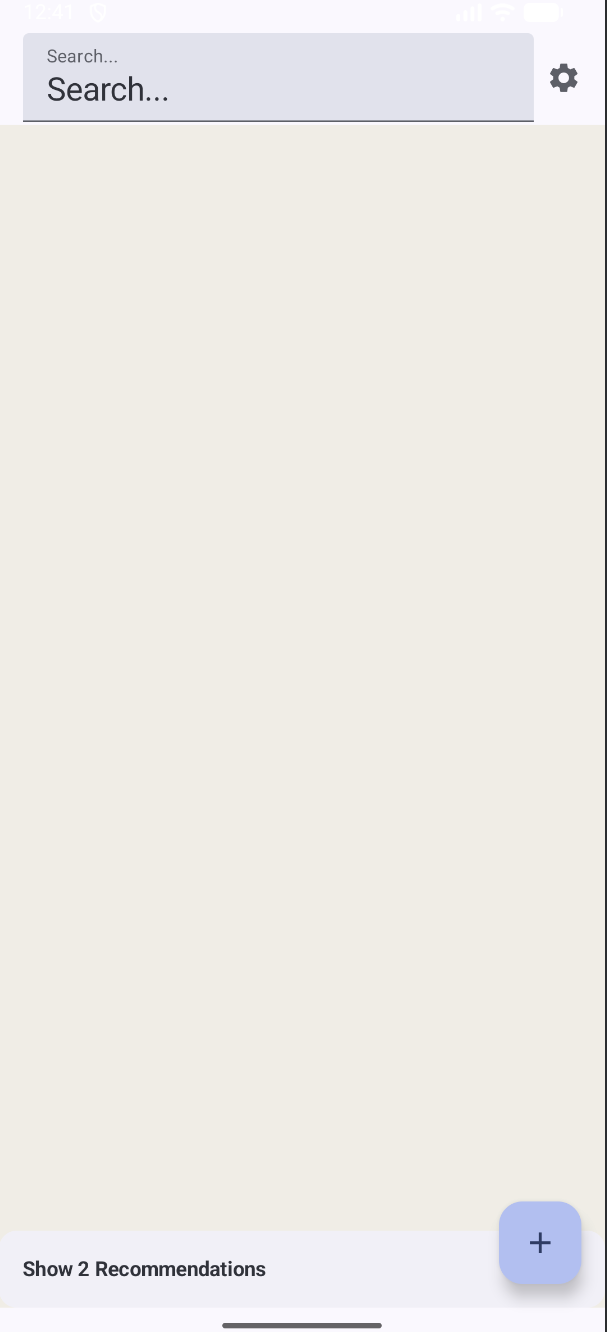
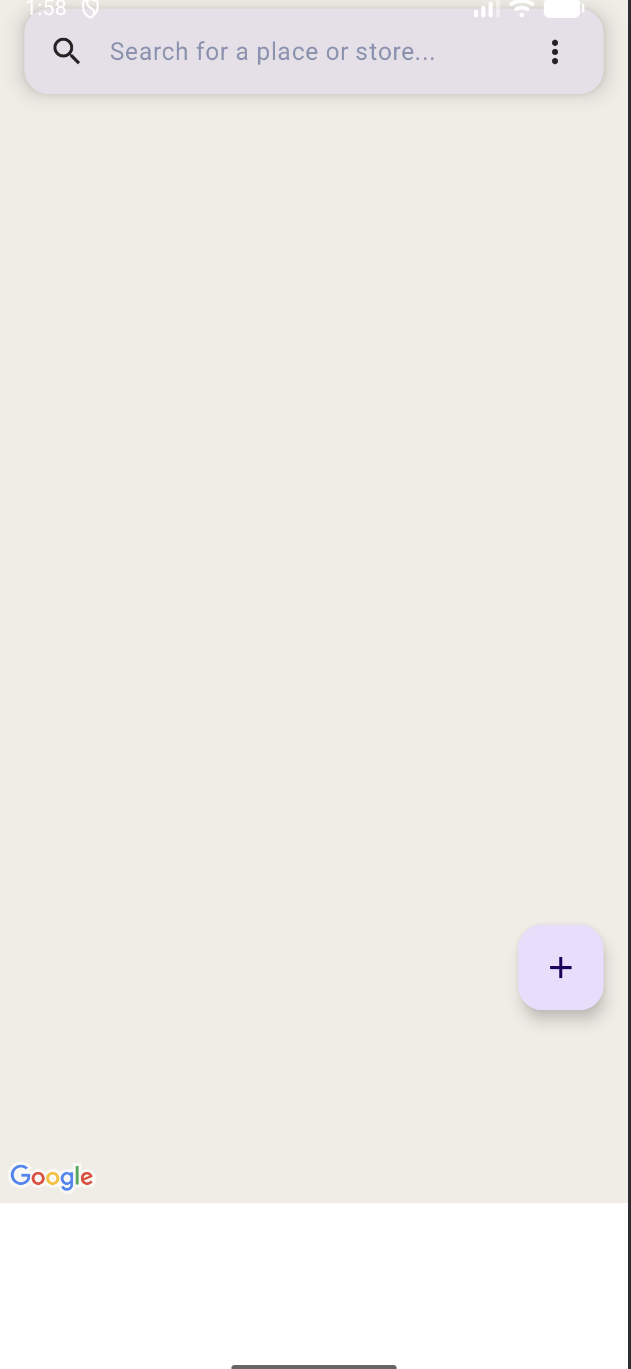
removed bottom right add card button

diff --git a/app/src/main/java/teamcherrypicker/com/ui/main/MainScreen.kt b/app/src/main/java/teamcherrypicker/com/ui/main/MainScreen.kt
@@ -58,12 +58,31 @@ fun MainScreen(
         )
     )
 
+    // Add: simple model for mock store markers and selection state
+    data class StoreMarker(val id: String, val position: LatLng, val title: String)
+
+    val mockStoreMarkers = listOf(
+        StoreMarker("s1", LatLng(1.3521, 103.8198), "Orchard Road - Mock Store"),
+        StoreMarker("s2", LatLng(1.2833, 103.8600), "Marina Bay - Mock Store"),
+        StoreMarker("s3", LatLng(1.3000, 103.8000), "Bugis - Mock Store")
+    )
+
+    var selectedMarker by remember { mutableStateOf<StoreMarker?>(null) }
+
+    // Use conditional peek height to hide sheet when no selection
+    val effectivePeek = if (selectedMarker != null) 220.dp else 0.dp
+
     BottomSheetScaffold(
         scaffoldState = scaffoldState,
         sheetContent = {
-            RecommendationSheetContent(cards = sampleCards)
+            if (selectedMarker != null) {
+                RecommendationSheetContent(cards = sampleCards, selectedTitle = selectedMarker!!.title)
+            } else {
+                // Completely empty content when no marker selected
+                Box(modifier = Modifier.height(0.dp))
+            }
         },
-        sheetPeekHeight = 120.dp,
+        sheetPeekHeight = effectivePeek,
         sheetShape = RoundedCornerShape(topStart = 16.dp, topEnd = 16.dp)
     ) { paddingValues ->
         Box(modifier = Modifier.padding(paddingValues).fillMaxSize()) {
@@ -76,10 +95,30 @@ fun MainScreen(
                 cameraPositionState = cameraPositionState,
                 uiSettings = uiSettings
             ) {
+                // Render mock store markers and wire up clicks to set selectedMarker
+                mockStoreMarkers.forEach { store ->
+                    Marker(
+                        state = MarkerState(position = store.position),
+                        title = store.title,
+                        snippet = "Tap for recommendations",
+                        onClick = {
+                            selectedMarker = store
+                            // Consume the click
+                            true
+                        }
+                    )
+                }
+
+                // Optionally keep one default marker (not selected by default)
                 Marker(
                     state = MarkerState(position = singapore),
                     title = "Singapore",
-                    snippet = "Marker in Singapore"
+                    snippet = "Marker in Singapore",
+                    onClick = {
+                        // deselect any store and do nothing else
+                        selectedMarker = null
+                        true
+                    }
                 )
             }
 
@@ -90,15 +129,7 @@ fun MainScreen(
                 onToggleDarkMode = onToggleDarkMode
             )
 
-            FloatingActionButton(
-                onClick = { navController.navigate(Screen.AddCardScreen.route) },
-                modifier = Modifier
-                    .align(Alignment.BottomEnd)
-                    .padding(16.dp)
-                    .padding(bottom = 110.dp) // Adjust to be above the peeked sheet
-            ) {
-                Icon(Icons.Filled.Add, contentDescription = "Add Card")
-            }
+            // Removed the bottom-right "+" FloatingActionButton per request
         }
     }
 }
@@ -191,7 +222,7 @@ fun FloatingSearchBar(
 }
 
 @Composable
-fun RecommendationSheetContent(cards: List<RecommendedCard>) {
+fun RecommendationSheetContent(cards: List<RecommendedCard>, selectedTitle: String) {
     Column(
         modifier = Modifier
             .fillMaxWidth()
@@ -208,7 +239,7 @@ fun RecommendationSheetContent(cards: List<RecommendedCard>) {
         Spacer(modifier = Modifier.height(16.dp))
 
         Text(
-            "Recommendations for this area",
+            "Recommendations for $selectedTitle",
             style = MaterialTheme.typography.titleLarge,
             fontWeight = FontWeight.Bold,
             modifier = Modifier.padding(bottom = 8.dp)
